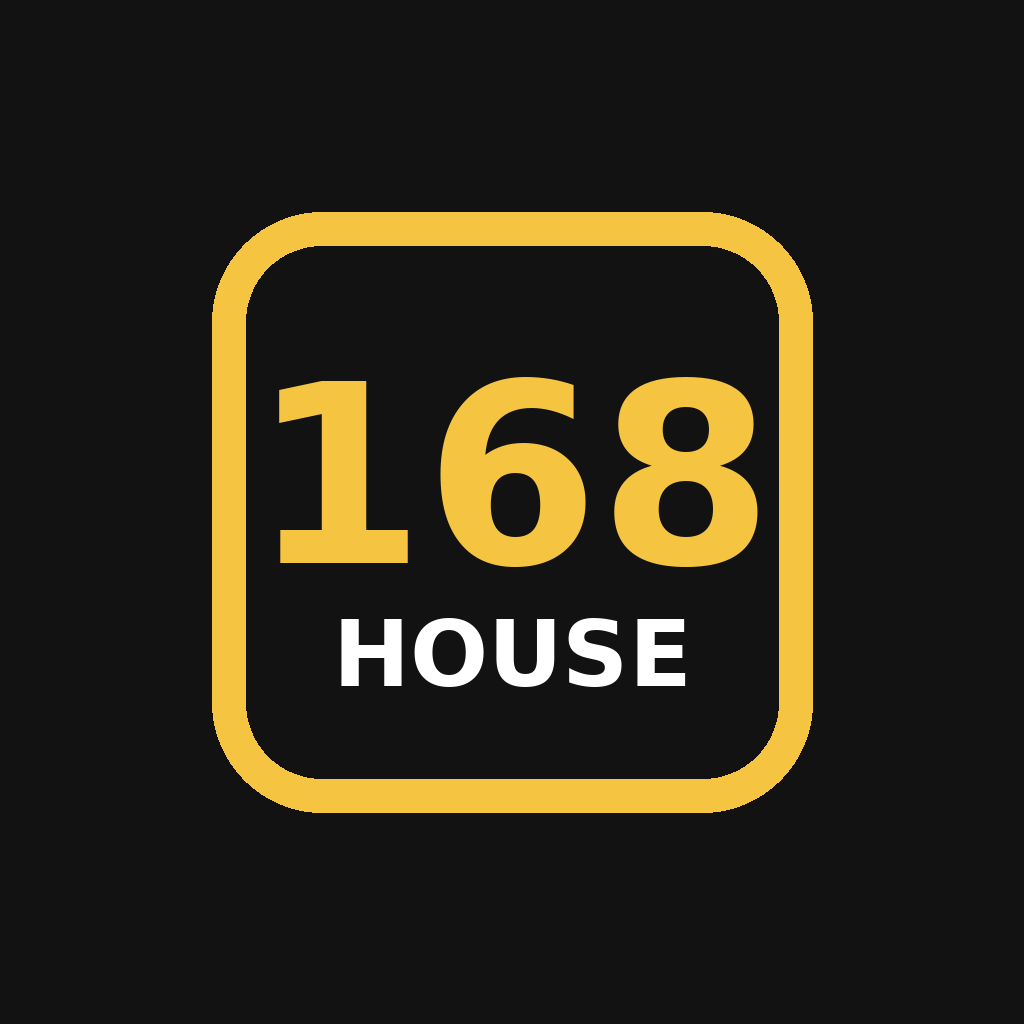
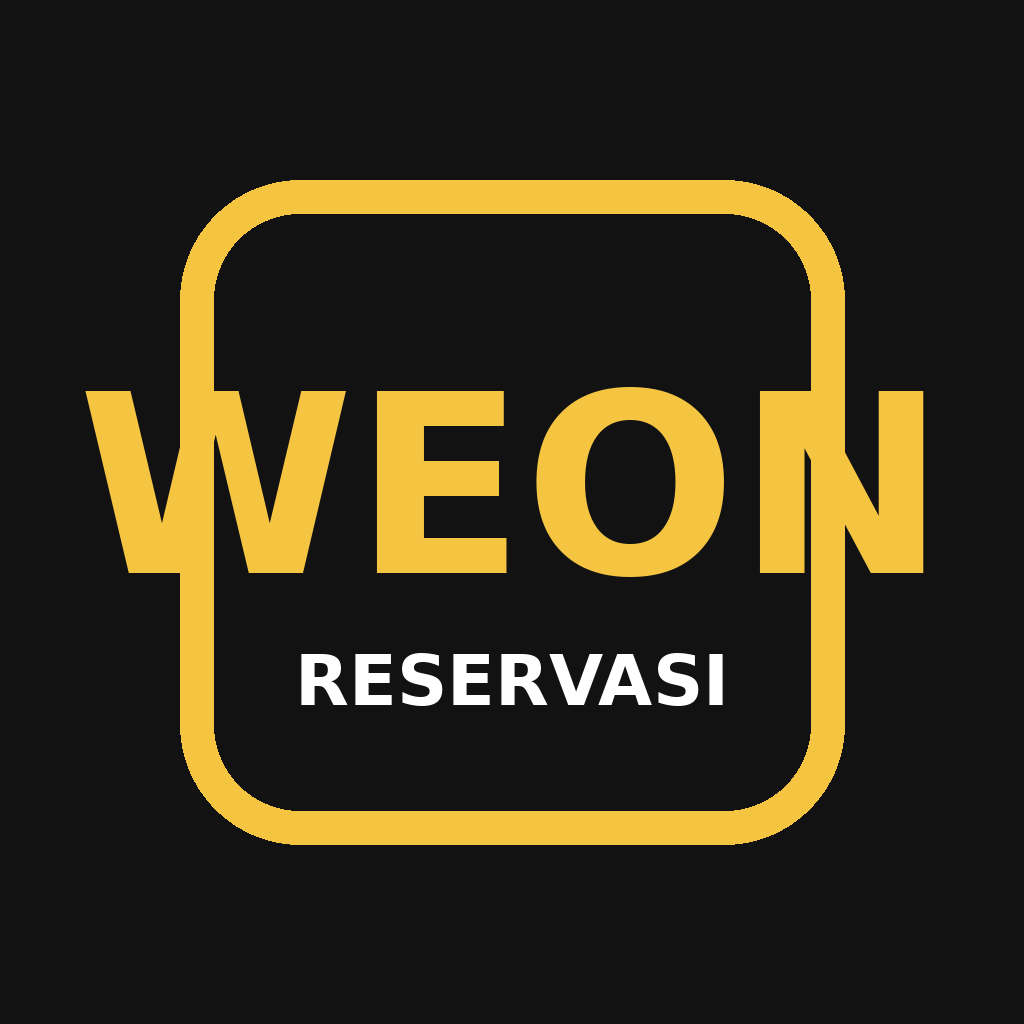
Rebrand: Reservasi WEON
Claude-Session: https://claude.ai/code/session_01W5PdaXsfQVwZHKoQXYw9ma

Changed region(s): [[0.0625, 0.1562, 0.9062, 0.8438], [0.2812, 0.5938, 0.7188, 0.6875]]

diff --git a/www/app.js b/www/app.js
@@ -108,7 +108,7 @@ function applyTheme(s) {
 
 /* ---------------- state ---------------- */
 const DEFAULTS = {
-  app_name: '168HOUSE', tagline: 'Nikmati pengalaman nightlife terbaik dan reservasi meja dengan mudah.',
+  app_name: 'WEON', tagline: 'Nikmati pengalaman nightlife terbaik dan reservasi meja dengan mudah.',
   logo_url: '', bg_url: '', theme: 'gold', admin_wa: '', instagram: '', about: ''
 };
 const tokSaved = store.get('admin_tok', null);
@@ -149,8 +149,8 @@ const Mock = {
       settings: Object.assign({}, DEFAULTS, { admin_email: '', fonnte_token: '', notify_customer: 'FALSE' }),
       pass: 'admin123',
       outlets: [
-        { id: o1, name: '168HOUSE PALU', city: 'Palu', address: 'Jl. Contoh No. 168, Palu', hours: '21:00 - 03:00', phone: '', photo: '', sort: '1', active: 'TRUE' },
-        { id: o2, name: '168 LOUNGE & BAR', city: 'Palu', address: 'Jl. Contoh No. 2, Palu', hours: '19:00 - 02:00', phone: '', photo: '', sort: '2', active: 'TRUE' },
+        { id: o1, name: 'WEON PALU', city: 'Palu', address: 'Jl. Contoh No. 168, Palu', hours: '21:00 - 03:00', phone: '', photo: '', sort: '1', active: 'TRUE' },
+        { id: o2, name: 'WEON LOUNGE & BAR', city: 'Palu', address: 'Jl. Contoh No. 2, Palu', hours: '19:00 - 02:00', phone: '', photo: '', sort: '2', active: 'TRUE' },
         { id: o3, name: 'OUTLET CONTOH MAKASSAR', city: 'Makassar', address: 'Jl. Contoh, Makassar', hours: '21:00 - 03:00', phone: '', photo: '', sort: '3', active: 'TRUE' }
       ],
       prices: [
@@ -964,7 +964,7 @@ function iosHint() {
   if (!ios || standalone || store.get('ios_hint_off', false)) return;
   const d = document.createElement('div');
   d.className = 'ios-hint';
-  d.innerHTML = `<div><b>Pasang aplikasi di iPhone</b><br>Ketuk <span class="share">⬆</span> <b>Bagikan</b> di Safari, lalu pilih <b>"Tambahkan ke Layar Utama"</b>.</div><button aria-label="Tutup">✕</button>`;
+  d.innerHTML = `<div><b>Pasang aplikasi WEON di iPhone</b><br>Ketuk <span class="share">⬆</span> <b>Bagikan</b> di Safari, lalu pilih <b>"Tambahkan ke Layar Utama"</b>.</div><button aria-label="Tutup">✕</button>`;
   d.querySelector('button').onclick = () => { store.set('ios_hint_off', true); d.remove(); };
   document.body.appendChild(d);
 }

diff --git a/www/index.html b/www/index.html
@@ -7,11 +7,11 @@
   <meta name="apple-mobile-web-app-capable" content="yes">
   <meta name="mobile-web-app-capable" content="yes">
   <meta name="apple-mobile-web-app-status-bar-style" content="black-translucent">
-  <meta name="apple-mobile-web-app-title" content="168HOUSE">
+  <meta name="apple-mobile-web-app-title" content="WEON">
   <link rel="manifest" href="manifest.webmanifest">
   <link rel="apple-touch-icon" href="apple-touch-icon.png">
   <link rel="icon" type="image/png" href="icon-192.png">
-  <title>Reservasi</title>
+  <title>WEON Reservasi</title>
   <link rel="preconnect" href="https://fonts.googleapis.com">
   <link rel="preconnect" href="https://fonts.gstatic.com" crossorigin>
   <link href="https://fonts.googleapis.com/css2?family=Poppins:wght@400;500;600;700;800&display=swap" rel="stylesheet">

diff --git a/README.md b/README.md
@@ -1,4 +1,4 @@
-# Aplikasi Reservasi Venue (Google Sheet + APK Android)
+# Reservasi WEON (Google Sheet + APK Android)
 
 Aplikasi reservasi meja/event bergaya aplikasi nightlife: halaman pembuka, Beranda (banner promo, menu, acara),
 RSVP (daftar outlet + reservasi), Member QR, Acara & Promo, Profil, plus **Panel Admin** di dalam aplikasi.
@@ -39,8 +39,8 @@ Jika `API_URL` kosong, aplikasi berjalan di **MODE DEMO** (data contoh, tidak ma
 2. Upload **semua isi folder ini** (termasuk folder tersembunyi `.github`). Cara mudah: *Add file → Upload files*, drag semua.
    Jika folder `.github` tidak ikut, buat file baru bernama `.github/workflows/build-apk.yml` lalu tempel isinya.
 3. Buka tab **Actions** → workflow **Build APK** berjalan otomatis (±5–8 menit).
-4. Setelah selesai (✅), unduh APK di **Releases → APK terbaru → reservasi-app.apk**
-   (link tetap: `https://github.com/flame160892/reservasi-168house-app/releases/download/latest/reservasi-app.apk`).
+4. Setelah selesai (✅), unduh APK di **Releases → APK terbaru → weon-reservasi.apk**
+   (link tetap: `https://github.com/flame160892/reservasi-168house-app/releases/download/latest/weon-reservasi.apk`).
 5. Pindahkan ke HP Android → install (izinkan "Instal dari sumber tidak dikenal").
 
 Ganti nama di bawah ikon HP: ubah `appName` di `capacitor.config.json`. Ganti ikon: timpa `resources/icon.png` (1024×1024).
@@ -82,6 +82,6 @@ Cara pasang di iPhone:
 1. Buka link di atas dengan **Safari**.
 2. Ketuk tombol **Bagikan** (kotak dengan panah ke atas).
 3. Pilih **"Tambahkan ke Layar Utama"** → **Tambah**.
-Ikon 168HOUSE muncul di layar utama dan aplikasi terbuka layar penuh seperti aplikasi biasa.
+Ikon WEON muncul di layar utama dan aplikasi terbuka layar penuh seperti aplikasi biasa.
 
 Link yang sama juga bisa dibuka di browser HP Android / laptop, atau dibagikan ke pelanggan (misal di bio Instagram).
